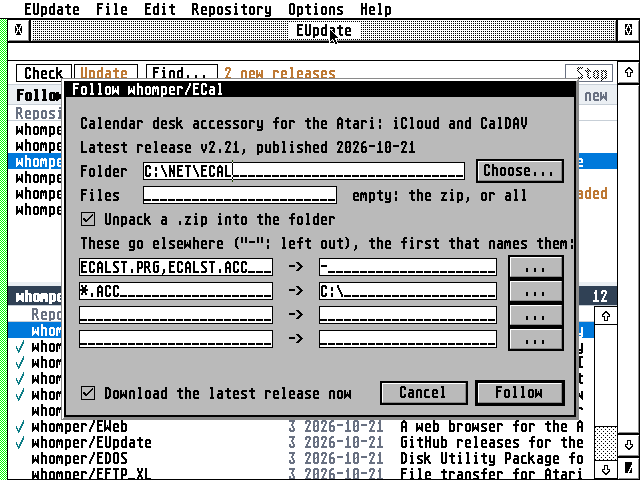
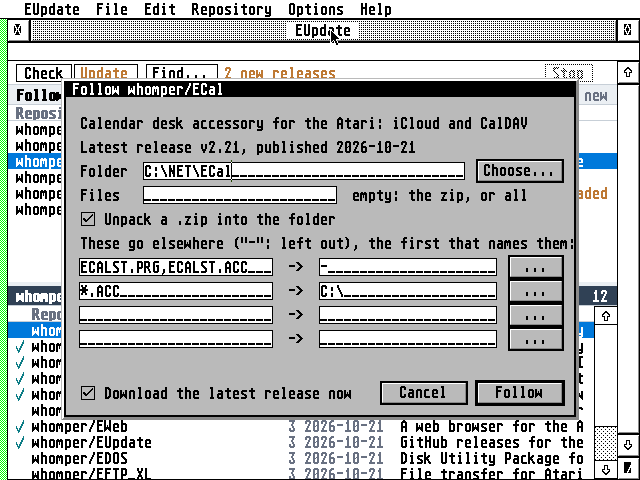
README: 2.03 as released: the screenshots retaken, the program's size (250 KB)
Erez, 12 Nov 2026: the READMEs brought up to date. Docs only.
- docs/screenshot.png and follow.png retaken from 2.03's window (bold
  column titles, D41); screenshots.py clicks Find's Owners radio button
  where D24 put it (its old place missed, so the pictures went wrong).
- The program is about 250 KB (2.03's eupdate.prg: 255,948 bytes), not 220,
  in the README and docs/DEVELOPING.md.
Everything else in the README still holds for 2.03.

Claude-Session: https://claude.ai/code/session_01XdZvM541gk99rsgNzHrGY3

diff --git a/tests/hatari/screenshots.py b/tests/hatari/screenshots.py
@@ -50,7 +50,7 @@ def main():
         r.ctrl("f")
         time.sleep(1.5)
         r.type("whomper")
-        r.click(200, 255)                      # Owners
+        r.click(330, 233)                      # Owners (a radio button since D24)
         r.key(K["RETURN"])
         time.sleep(10)
         r.click(60, 331, double=True)          # whomper: the family

diff --git a/README.md b/README.md
@@ -15,7 +15,7 @@ them with a click or on a schedule.
 - **Every file where it belongs:** zips unpacked, accessories to `C:\`, 8+3 names, safe writes.
 - **TLS on the Atari itself**, the handshake on the Falcon's DSP; no gateway.
 - **A GitHub token** is optional and kept encrypted; it goes only to GitHub's API.
-- **Light:** about 220 KB, and 140 KB of `TLS.OVL` loaded when it first talks to GitHub.
+- **Light:** about 250 KB, and 140 KB of `TLS.OVL` loaded when it first talks to GitHub.
 
 ![EUpdate on a Falcon: the AERA programs followed above, repositories found below](docs/screenshot.png)
 

diff --git a/docs/DEVELOPING.md b/docs/DEVELOPING.md
@@ -25,7 +25,7 @@ and what each test checks. How to use it is in the user guide, [GUIDE.md](GUIDE.
 - **Modern but Atari:** one window with a toolbar and tooltips, right-click menus, the family's
   Settings dialog, VA_START and drag and drop (drop a repository's address on the window),
   iconify, help in EHypView or ST-Guide.
-- **Light:** about 220 KB, and 140 KB more for `TLS.OVL` once it talks to GitHub; built so that
+- **Light:** about 250 KB, and 140 KB more for `TLS.OVL` once it talks to GitHub; built so that
   only the shared AERA code it calls goes in.
 
 ## How it reaches GitHub
